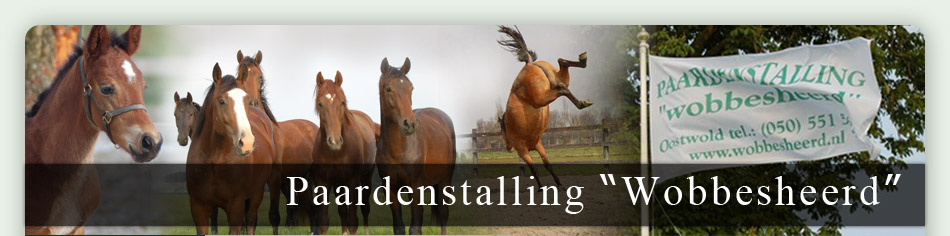
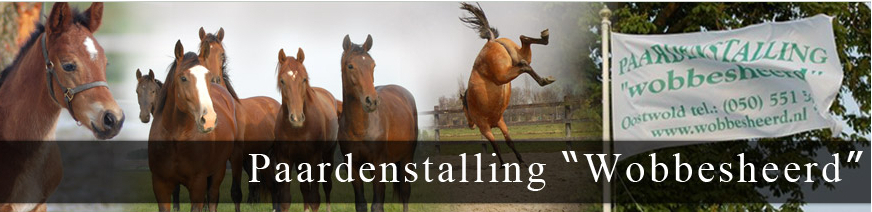
Rename images

diff --git a/index.php b/index.php
@@ -15,7 +15,7 @@
 	<body>
 		<div class="container">
 			<header role="banner">
-				<img id="logo-main" src="img/header_NEW.jpg" width="900" height="201" title="Paardenstalling Wobbesheerd" alt="Paardenstalling Wobbesheerd Oostwold">
+				<img id="logo-main" src="img/header.jpg" width="900" height="201" title="Paardenstalling Wobbesheerd" alt="Paardenstalling Wobbesheerd Oostwold">
 				<nav id="navbar-primary" class="navbar navbar-default">
 					<div class="container-fluid">
 						<!-- Brand and toggle get grouped for better mobile display -->
